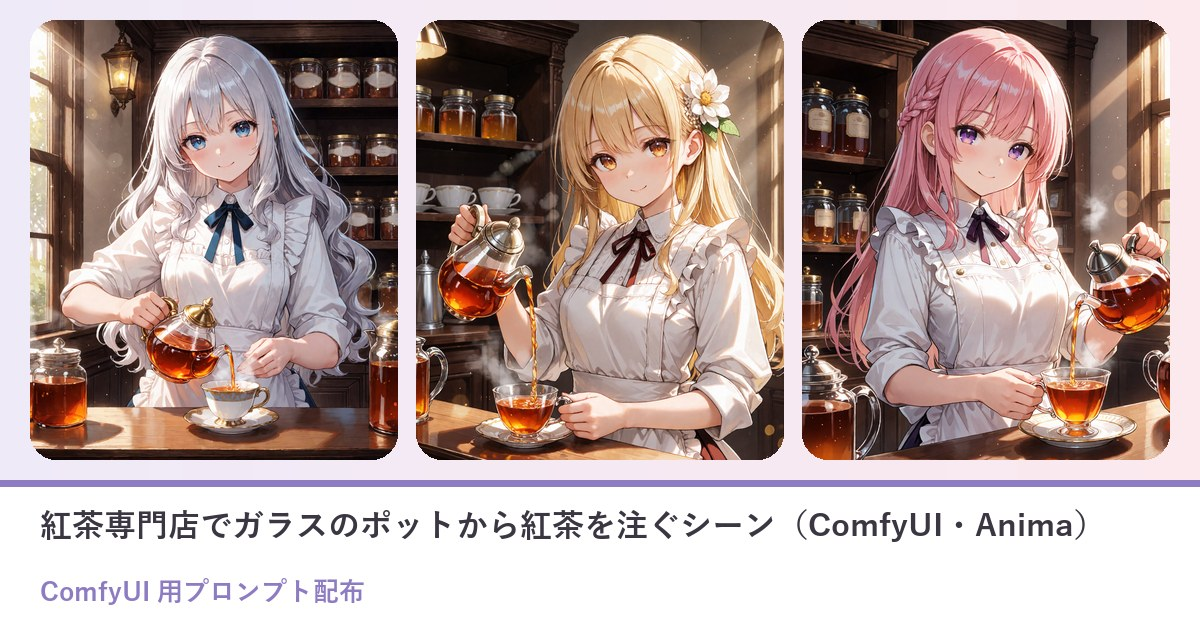
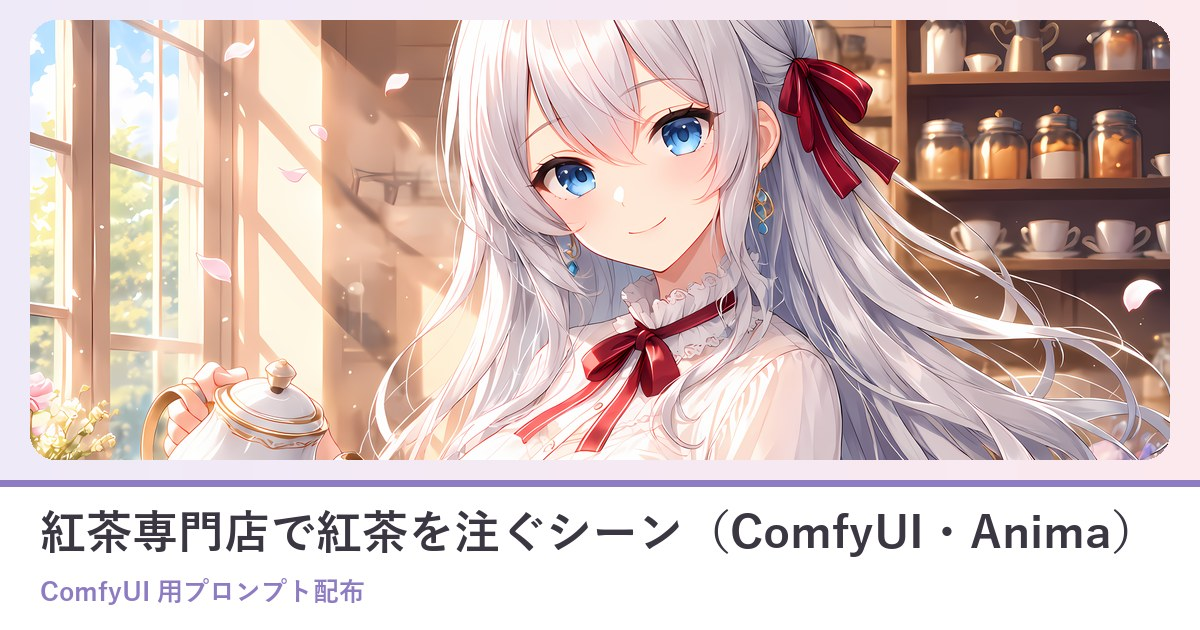
プロンプト配布 10/02 三姉妹 ComfyUI を1枚・LoRA あり／なしに作り直し

diff --git a/prompts/2026-10-02-comfy-hjtswqc5.html b/prompts/2026-10-02-comfy-hjtswqc5.html
@@ -1,4 +1,4 @@
-<!DOCTYPE html><html lang="ja"><head><meta charset="UTF-8"><meta name="robots" content="noindex, nofollow, noarchive"><meta name="referrer" content="strict-origin"><meta name="viewport" content="width=device-width, initial-scale=1.0"><meta name="google-site-verification" content="vmr51R1zcK5z3btUMgFGf_4-Veo8pUE7TCdoEpaSpaI"><title>紅茶専門店でガラスのポットから紅茶を注ぐシーン（ComfyUI・Anima）</title><meta name="description" content="茶葉の瓶が並ぶ木の棚と、午後の光がさしこむ窓。ガラスのティーポットから琥珀色の紅茶を注いで、こちらに微笑む紅茶専門店のシーンのプロンプトです。オリキャラがいなくても、そのまま貼るだけで綺麗な女の子で出ます。自分のキャラに"><link rel="icon" href="../favicon.ico" sizes="any"><link rel="icon" type="image/png" sizes="32x32" href="../favicon-32x32.png"><link rel="apple-touch-icon" href="../apple-touch-icon.png"><link rel="canonical" href="https://lupinusrossetti.github.io/AIBSPortfolioBlog/prompts/2026-10-02-comfy-hjtswqc5.html"><meta property="og:type" content="article"><meta property="og:site_name" content="Lupinus Rossetti | AI Bloom Sisters"><meta property="og:title" content="紅茶専門店でガラスのポットから紅茶を注ぐシーン（ComfyUI・Anima）"><meta property="og:description" content="茶葉の瓶が並ぶ木の棚と、午後の光がさしこむ窓。ガラスのティーポットから琥珀色の紅茶を注いで、こちらに微笑む紅茶専門店のシーンのプロンプトです。オリキャラがいなくても、そのまま貼るだけで綺麗な女の子で出ます。自分のキャラに"><meta property="og:url" content="https://lupinusrossetti.github.io/AIBSPortfolioBlog/prompts/2026-10-02-comfy-hjtswqc5.html"><meta property="og:image" content="https://lupinusrossetti.github.io/AIBSPortfolioBlog/prompts/img/2026-10-02-comfy-hjtswqc5/og.jpg"><meta name="twitter:card" content="summary_large_image"><meta name="twitter:site" content="@irisfionaAIBS"><meta name="twitter:title" content="紅茶専門店でガラスのポットから紅茶を注ぐシーン（ComfyUI・Anima）"><meta name="twitter:description" content="茶葉の瓶が並ぶ木の棚と、午後の光がさしこむ窓。ガラスのティーポットから琥珀色の紅茶を注いで、こちらに微笑む紅茶専門店のシーンのプロンプトです。オリキャラがいなくても、そのまま貼るだけで綺麗な女の子で出ます。自分のキャラに"><meta name="twitter:image" content="https://lupinusrossetti.github.io/AIBSPortfolioBlog/prompts/img/2026-10-02-comfy-hjtswqc5/og.jpg"><script type="application/ld+json">{"@context": "https://schema.org", "@type": "Article", "headline": "紅茶専門店でガラスのポットから紅茶を注ぐシーン（ComfyUI・Anima）", "description": "茶葉の瓶が並ぶ木の棚と、午後の光がさしこむ窓。ガラスのティーポットから琥珀色の紅茶を注いで、こちらに微笑む紅茶専門店のシーンのプロンプトです。オリキャラがいなくても、そのまま貼るだけで綺麗な女の子で出ます。自分のキャラに", "image": "https://lupinusrossetti.github.io/AIBSPortfolioBlog/prompts/img/2026-10-02-comfy-hjtswqc5/og.jpg", "url": "https://lupinusrossetti.github.io/AIBSPortfolioBlog/prompts/2026-10-02-comfy-hjtswqc5.html", "mainEntityOfPage": "https://lupinusrossetti.github.io/AIBSPortfolioBlog/prompts/2026-10-02-comfy-hjtswqc5.html", "author": {"@type": "Person", "name": "Lupinus Rossetti"}, "publisher": {"@type": "Organization", "name": "Lupinus Rossetti | AI Bloom Sisters", "logo": {"@type": "ImageObject", "url": "https://lupinusrossetti.github.io/AIBSPortfolioBlog/apple-touch-icon.png"}}, "inLanguage": "ja-JP"}</script><link rel="stylesheet" href="../assets/css/site.css"><link rel="stylesheet" href="../assets/css/decorations.css"><link rel="preconnect" href="https://fonts.googleapis.com"><link rel="preconnect" href="https://fonts.gstatic.com" crossorigin><link href="https://fonts.googleapis.com/css2?family=Great+Vibes&family=Cormorant+Garamond:ital,wght@0,400;0,500;0,600;1,400;1,500&family=Jost:wght@300;400;500&family=Shippori+Mincho:wght@400;500;600&family=Zen+Kaku+Gothic+New:wght@300;400;500&family=Zen+Maru+Gothic:wght@400;500;700&display=swap" rel="stylesheet"><style>:root{--ps-a:var(--lupinus,#8e7cc3);--ps-soft:var(--lupinus-soft,#efeaf8);--ps-line:var(--line,#ece7f1);--ps-ink:var(--ink-soft,#6f6a78)}
+<!DOCTYPE html><html lang="ja"><head><meta charset="UTF-8"><meta name="robots" content="noindex, nofollow, noarchive"><meta name="referrer" content="strict-origin"><meta name="viewport" content="width=device-width, initial-scale=1.0"><meta name="google-site-verification" content="vmr51R1zcK5z3btUMgFGf_4-Veo8pUE7TCdoEpaSpaI"><title>紅茶専門店で紅茶を注ぐシーン（ComfyUI・Anima）</title><meta name="description" content="茶葉の瓶が並ぶ棚と、午後の光がさしこむ窓。ポットから琥珀色の紅茶を注いで、こちらに微笑む紅茶専門店のシーンのプロンプトです。LoRA が無くても、A をそのまま貼るだけで綺麗な女の子で出ます。自分のキャラの LoRA を"><link rel="icon" href="../favicon.ico" sizes="any"><link rel="icon" type="image/png" sizes="32x32" href="../favicon-32x32.png"><link rel="apple-touch-icon" href="../apple-touch-icon.png"><link rel="canonical" href="https://lupinusrossetti.github.io/AIBSPortfolioBlog/prompts/2026-10-02-comfy-hjtswqc5.html"><meta property="og:type" content="article"><meta property="og:site_name" content="Lupinus Rossetti | AI Bloom Sisters"><meta property="og:title" content="紅茶専門店で紅茶を注ぐシーン（ComfyUI・Anima）"><meta property="og:description" content="茶葉の瓶が並ぶ棚と、午後の光がさしこむ窓。ポットから琥珀色の紅茶を注いで、こちらに微笑む紅茶専門店のシーンのプロンプトです。LoRA が無くても、A をそのまま貼るだけで綺麗な女の子で出ます。自分のキャラの LoRA を"><meta property="og:url" content="https://lupinusrossetti.github.io/AIBSPortfolioBlog/prompts/2026-10-02-comfy-hjtswqc5.html"><meta property="og:image" content="https://lupinusrossetti.github.io/AIBSPortfolioBlog/prompts/img/2026-10-02-comfy-hjtswqc5/og.jpg"><meta name="twitter:card" content="summary_large_image"><meta name="twitter:site" content="@irisfionaAIBS"><meta name="twitter:title" content="紅茶専門店で紅茶を注ぐシーン（ComfyUI・Anima）"><meta name="twitter:description" content="茶葉の瓶が並ぶ棚と、午後の光がさしこむ窓。ポットから琥珀色の紅茶を注いで、こちらに微笑む紅茶専門店のシーンのプロンプトです。LoRA が無くても、A をそのまま貼るだけで綺麗な女の子で出ます。自分のキャラの LoRA を"><meta name="twitter:image" content="https://lupinusrossetti.github.io/AIBSPortfolioBlog/prompts/img/2026-10-02-comfy-hjtswqc5/og.jpg"><script type="application/ld+json">{"@context": "https://schema.org", "@type": "Article", "headline": "紅茶専門店で紅茶を注ぐシーン（ComfyUI・Anima）", "description": "茶葉の瓶が並ぶ棚と、午後の光がさしこむ窓。ポットから琥珀色の紅茶を注いで、こちらに微笑む紅茶専門店のシーンのプロンプトです。LoRA が無くても、A をそのまま貼るだけで綺麗な女の子で出ます。自分のキャラの LoRA を", "image": "https://lupinusrossetti.github.io/AIBSPortfolioBlog/prompts/img/2026-10-02-comfy-hjtswqc5/og.jpg", "url": "https://lupinusrossetti.github.io/AIBSPortfolioBlog/prompts/2026-10-02-comfy-hjtswqc5.html", "mainEntityOfPage": "https://lupinusrossetti.github.io/AIBSPortfolioBlog/prompts/2026-10-02-comfy-hjtswqc5.html", "author": {"@type": "Person", "name": "Lupinus Rossetti"}, "publisher": {"@type": "Organization", "name": "Lupinus Rossetti | AI Bloom Sisters", "logo": {"@type": "ImageObject", "url": "https://lupinusrossetti.github.io/AIBSPortfolioBlog/apple-touch-icon.png"}}, "inLanguage": "ja-JP"}</script><link rel="stylesheet" href="../assets/css/site.css"><link rel="stylesheet" href="../assets/css/decorations.css"><link rel="preconnect" href="https://fonts.googleapis.com"><link rel="preconnect" href="https://fonts.gstatic.com" crossorigin><link href="https://fonts.googleapis.com/css2?family=Great+Vibes&family=Cormorant+Garamond:ital,wght@0,400;0,500;0,600;1,400;1,500&family=Jost:wght@300;400;500&family=Shippori+Mincho:wght@400;500;600&family=Zen+Kaku+Gothic+New:wght@300;400;500&family=Zen+Maru+Gothic:wght@400;500;700&display=swap" rel="stylesheet"><style>:root{--ps-a:var(--lupinus,#8e7cc3);--ps-soft:var(--lupinus-soft,#efeaf8);--ps-line:var(--line,#ece7f1);--ps-ink:var(--ink-soft,#6f6a78)}
 .ps{max-width:780px;margin:0 auto;padding:0 18px 40px}
 .ps h2{font-size:1.25rem;margin:40px 0 12px;color:var(--ps-a)}
 .ps .ps-lead{color:var(--ps-ink);line-height:1.9}
@@ -44,10 +44,12 @@
 .ps-r18{border:2px solid #ff7fae;background:#241832;color:#f6ecfa;border-radius:16px;padding:14px 16px;line-height:1.8}
 @media(max-width:560px){.ps-ba{grid-template-columns:1fr}.ps-ba .arr{transform:rotate(90deg);text-align:center}.ps-vars,.ps-vars tbody,.ps-vars tr,.ps-vars th,.ps-vars td{display:block;width:auto;white-space:normal}.ps-vars tr:first-child{display:none}.ps-vars tr{border-bottom:1px solid var(--ps-line);padding:4px 0}.ps-vars th,.ps-vars td{border:0;padding:6px 12px}}
 .ps{overflow-wrap:anywhere}.ps-vars td,.ps-vars th{overflow-wrap:anywhere}.ps img{max-width:100%}
-</style><!--ps-meta {"date": "2026-10-02", "title": "紅茶専門店でガラスのポットから紅茶を注ぐシーン（ComfyUI・Anima）", "kind": "comfy", "nsfw": false, "summary": "茶葉の瓶が並ぶ紅茶専門店で、ガラスのポットから紅茶を注ぐ午後の一枚。貼るだけで作れます。", "thumb": "img/2026-10-02-comfy-hjtswqc5/ex1.webp"}-->
-</head><body class="decor-page decor-bubble"><div class="page-decor" aria-hidden="true"><div class="decor-layer decor-bubble-layer"><i></i><i></i><i></i><i></i><i></i><i></i><i></i><i></i><i></i><i></i><i></i><i></i></div></div><header class="site-header"><div class="container"><a class="brand" href="../index.html"><span class="brand-script">Lupinus</span><span class="brand-sub">AI Bloom Sisters</span></a><button class="menu-toggle" aria-label="menu" onclick="document.getElementById('nav').classList.toggle('open')">≡</button><nav class="nav" id="nav"><a href="../index.html">Home</a><a href="../about.html">About</a><a href="../portfolio.html">Portfolio</a><a href="../gallery.html">Gallery</a><a href="../blog/index.html" class="active">Blog</a><a href="../sns.html">SNS</a><a href="../coming-soon.html">Contact</a></nav></div></header><main class="article"><header class="article-header"><div class="date">2026-10-02<span class="day-chip">プロンプト配布</span></div><h1>紅茶専門店でガラスのポットから紅茶を注ぐシーン（ComfyUI・Anima）</h1></header><div class="article-body"><div class="ps"><p><span class="ps-badge">ComfyUI 用</span><span class="ps-badge">2026-10-02</span></p><p class="ps-lead">茶葉の瓶が並ぶ木の棚と、午後の光がさしこむ窓。ガラスのティーポットから琥珀色の紅茶を注いで、こちらに微笑む紅茶専門店のシーンのプロンプトです。オリキャラがいなくても、そのまま貼るだけで綺麗な女の子で出ます。自分のキャラにしたいときは、1行目の見た目だけ書き換えてください。</p><nav class="ps-toc" aria-label="目次"><p>📑 目次</p><ol><li><a href="#sec1">作例</a></li><li><a href="#sec2">3人のおしゃべり（本日のおすすめは？）</a></li><li><a href="#sec3">使い方（3ステップ）</a></li><li><a href="#sec4">プロンプト</a></li><li><a href="#sec5">必要なもの（ComfyUI）</a></li><li><a href="#sec6">メモ</a></li><li><a href="#sec7">配布ルール</a></li><li><a href="#sec8">バックナンバー</a></li></ol></nav><h2 id="sec1">作例</h2><div class="ps-ex"><figure><img src="img/2026-10-02-comfy-hjtswqc5/ex1.webp" alt="1行目そのまま（1girl, solo, long hair, wavy hair, silver hair, blue eyes）" loading="lazy"><figcaption>1行目そのまま（1girl, solo, long hair, wavy hair, silver hair, blue eyes）</figcaption></figure><figure><img src="img/2026-10-02-comfy-hjtswqc5/ex2.webp" alt="1行目を「1girl, solo, long hair, blonde hair, hair flower, amber eyes」に" loading="lazy"><figcaption>1行目を「1girl, solo, long hair, blonde hair, hair flower, amber eyes」に</figcaption></figure><figure><img src="img/2026-10-02-comfy-hjtswqc5/ex3.webp" alt="1行目を「1girl, solo, long hair, pink hair, braid, purple eyes」に" loading="lazy"><figcaption>1行目を「1girl, solo, long hair, pink hair, braid, purple eyes」に</figcaption></figure><figure><img src="img/2026-10-02-comfy-hjtswqc5/ex4.webp" alt="1行目を「1girl, solo, short hair, brown hair, glasses, green eyes」に" loading="lazy"><figcaption>1行目を「1girl, solo, short hair, brown hair, glasses, green eyes」に</figcaption></figure></div><p style="font-size:.82rem;color:var(--ps-ink)">※作例の画像の転載・保存しての再配布はご遠慮ください。</p><h2 id="sec2">3人のおしゃべり（本日のおすすめは？）</h2><div class="ps-chat"><img src="img/2026-10-02-comfy-hjtswqc5/talk_iris_laugh.webp" alt="アイリス" loading="lazy"><div><div class="who">アイリス</div><div class="bub">見て見て！ ガラスのポットだから、琥珀色の紅茶が光ってきらきらしてる〜！ 湯気までおいしそう！</div></div></div><div class="ps-chat r"><img src="img/2026-10-02-comfy-hjtswqc5/talk_fiona_shy.webp" alt="フィオナ" loading="lazy"><div><div class="who">フィオナ</div><div class="bub">うしろの棚、茶葉の瓶がずらっと並んでいて……窓の光がさしこむ午後の紅茶屋さん、憧れます</div></div></div><div class="ps-chat r"><img src="img/2026-10-02-comfy-hjtswqc5/talk_lupinus_happy.webp" alt="ルピナス" loading="lazy"><div><div class="who">ルピナス</div><div class="bub">1行目の髪の色や眼鏡を書き換えるだけで、金髪のお花の子にも、ピンクの三つ編みにも、眼鏡の店員さんにもなりますよ</div></div></div><div class="ps-chat"><img src="img/2026-10-02-comfy-hjtswqc5/talk_iris_devious.webp" alt="アイリス" loading="lazy"><div><div class="who">アイリス</div><div class="bub">ねえねえ、首のリボンの色が毎回ちがうよ？ 赤とか、緑とか、青とか！</div></div></div><div class="ps-chat r"><img src="img/2026-10-02-comfy-hjtswqc5/talk_fiona_thinking.webp" alt="フィオナ" loading="lazy"><div><div class="who">フィオナ</div><div class="bub">決めたいときは、2行目のリボンの前に色を足せばいいみたいです……メモしておきますね</div></div></div><div class="ps-chat r"><img src="img/2026-10-02-comfy-hjtswqc5/talk_lupinus_wink.webp" alt="ルピナス" loading="lazy"><div><div class="who">ルピナス</div><div class="bub">オリキャラがいなくても、そのまま貼るだけで大丈夫。焼けたら、一杯いかがですか？</div></div></div><h2 id="sec3">使い方（3ステップ）</h2><ol class="ps-steps"><li>ComfyUI で Anima のモデルを読み、基本の画像生成（テキストから画像）の画面にする</li><li>下のポジティブとネガティブをワンタップでコピーして貼る（自分のキャラにするなら1行目だけ書き換える）</li><li>「推奨値」の大きさ・steps・CFG にして生成する（できれば 1.5 倍の hires fix も）</li></ol><h2 id="sec4">プロンプト</h2><div class="ps-note" style="margin-bottom:12px"><b>変えるのは1行目（色の付いた行）だけ</b><ul><li>1行目＝キャラの見た目（髪の色・髪型・目の色など）。自分のキャラの特徴に書き換えてね</li><li>オリキャラがいない人は、<b>そのまま</b>コピーして使えばOK（作例の女の子で出ます）</li><li>自分のキャラの LoRA がある人は、1行目に LoRA のトリガー語を入れてね</li><li>2行目から下（シーン）と、ネガティブプロンプトは変えずにそのまま</li><li>🚫 版権キャラの名前・版権キャラの LoRA を入れて使うのは固く禁止です（下の「配布ルール」）</li></ul></div><div class="ps-box"><button class="ps-copy" type="button" data-target="ps-prompt">📋 ワンタップでコピー</button><p style="margin:0 0 8px;font-size:.82rem;color:var(--ps-a)">ポジティブプロンプト</p><pre><mark class="ps-in" data-key="キャラの行">1girl, solo, long hair, wavy hair, silver hair, blue eyes</mark>
-masterpiece, best quality, score_7, safe, smile, looking at viewer, upper body, pouring tea, holding teapot, glass teapot, teacup, saucer, steam, amber tea, white blouse, frilled apron, neck ribbon, rolled up sleeves, tea shop, wooden counter, shelves, tea tins, glass jars, window, afternoon, sunlight, light rays, dust particles, warm colors, depth of field, bokeh, detailed background, cinematic lighting</pre><textarea class="ps-copyarea" id="ps-prompt" readonly aria-hidden="true" tabindex="-1">1girl, solo, long hair, wavy hair, silver hair, blue eyes
-masterpiece, best quality, score_7, safe, smile, looking at viewer, upper body, pouring tea, holding teapot, glass teapot, teacup, saucer, steam, amber tea, white blouse, frilled apron, neck ribbon, rolled up sleeves, tea shop, wooden counter, shelves, tea tins, glass jars, window, afternoon, sunlight, light rays, dust particles, warm colors, depth of field, bokeh, detailed background, cinematic lighting</textarea></div><div style="height:12px"></div><div class="ps-box"><button class="ps-copy" type="button" data-target="ps-negative">📋 ワンタップでコピー</button><p style="margin:0 0 8px;font-size:.82rem;color:var(--ps-a)">ネガティブプロンプト</p><pre>worst quality, low quality, lowres, bad anatomy, bad hands, extra fingers, missing fingers, fused fingers, blurry, jpeg artifacts, text, watermark, signature, logo, extra person, multiple girls, cropped, out of frame, japanese text, chinese text, korean text, kanji, hiragana, katakana, calligraphy</pre><textarea class="ps-copyarea" id="ps-negative" readonly aria-hidden="true" tabindex="-1">worst quality, low quality, lowres, bad anatomy, bad hands, extra fingers, missing fingers, fused fingers, blurry, jpeg artifacts, text, watermark, signature, logo, extra person, multiple girls, cropped, out of frame, japanese text, chinese text, korean text, kanji, hiragana, katakana, calligraphy</textarea></div><h2 id="sec5">必要なもの（ComfyUI）</h2><div class="ps-note">🧩 <b>カスタムノードは使っていません</b>。LoRA も要りません。ComfyUI の基本の画像生成（テキストから画像）に、ポジティブ・ネガティブを貼って、下の推奨値にするだけです。</div><table class="ps-vars" style="margin-top:12px"><tr><th>モデル</th><th>ファイル</th><th>置き場</th></tr><tr><td>Anima 系のモデル</td><td>PrismPalette_ANIMA_v1 など好きな Anima</td><td><code>models/diffusion_models</code></td></tr><tr><td>テキストエンコーダ（Anima 用）</td><td>qwen_3_06b_base.safetensors</td><td><code>models/text_encoders</code></td></tr><tr><td>VAE（Anima 用）</td><td>qwen_image_vae.safetensors</td><td><code>models/vae</code></td></tr></table><h2>推奨値</h2><table class="ps-vars"><tr><th>大きさ</th><td colspan="2">1024×1024（正方形＝上半身とカウンターの手元）</td></tr><tr><th>steps</th><td colspan="2">30</td></tr><tr><th>CFG</th><td colspan="2">4.5</td></tr><tr><th>sampler</th><td colspan="2">er_sde</td></tr><tr><th>scheduler</th><td colspan="2">beta</td></tr><tr><th>hires fix（任意）</th><td colspan="2">1.5 倍に拡大して denoise 0.4・同じ steps と CFG（作例はこれ）</td></tr><tr><th>LoRA</th><td colspan="2">要りません（自分のキャラの LoRA があれば使ってOK）</td></tr></table><h2 id="sec6">メモ</h2><ul class="ps-rules"><li>1行目には見た目だけを書いてください（髪の色・長さ・髪型・髪飾り・目の色・眼鏡など）。服・お店・光は2行目からに入っています。</li><li>片手はポット、もう片手はカップに添える形にしてあるので、手がくずれにくくなっています。くずれたら seed を変えて何枚か焼いてください。</li><li>首のリボンの色は seed で変わります（赤・緑・紫・青など）。決めたいときは2行目の neck ribbon の前に red などの色を足してください。</li></ul><h2 id="sec7">配布ルール</h2><ul class="ps-rules"><li>⭕ プロンプトの改変は自由です。</li><li>⭕ 生成した画像は SNS に投稿して大丈夫です。</li><li>❌ プロンプト文そのものの転載・再配布・販売はしないでください。</li><li>❌ 自作のプロンプトだと名乗ることはやめてください。</li><li>❌ このページの作例画像の無断転載はしないでください。</li><li class="ps-rights">🚫 <b>アニメ・漫画・ゲームなどの版権キャラクター（著作権・商標のあるキャラ）、他の人のキャラクターやイラスト、実在の人物の写真を添付画像にして使うことは固く禁止します。</b>版権キャラの名前や、版権キャラの LoRA を入れて使うことも禁止です。</li><li>✅ 添付してよいのは、<b>自分で作ったキャラクター・自分が権利を持つ画像</b>（または権利者から使ってよいと言われた画像）だけです。</li><li>⚠ 生成した画像の使い方（投稿・公開など）は、使った人の責任でお願いします。権利の問題が起きても、配布者は責任を負えません。</li><li>💌 使ったら <b>#ルピナスプロンプト</b> を付けて見せてくれたら、とても嬉しいです（任意です）。</li></ul><h2 id="sec8">バックナンバー</h2><div class="ps-note">📚 これまでの配布は <a href="index.html"><b>バックナンバー</b></a> にまとめてあります（作例の絵と内容が一覧で見られます）。お友だちに教えるときは、バックナンバーのページの URL を送ればOKです。</div></div></div></main><footer class="site-footer"><div class="container"><div class="brand-script">Lupinus Rossetti</div><p class="tagline">AI Bloom Sisters &mdash; flower language: imagination</p><div class="sns-row"><a class="sns-link" href="https://x.com/irisfionaAIBS" target="_blank" rel="noopener"><span class="dot"></span>X (Twitter)</a><a class="sns-link" href="https://www.youtube.com/@AIBloomSisters" target="_blank" rel="noopener"><span class="dot"></span>YouTube</a><a class="sns-link" href="https://note.com/rupi_airupi" target="_blank" rel="noopener"><span class="dot"></span>note</a><a class="sns-link" href="https://lupinus-rossetti.fanbox.cc/" target="_blank" rel="noopener"><span class="dot"></span>FANBOX</a></div><p class="copy">&copy; 2026 AI Bloom Sisters. All rights reserved.</p><p style="font-size:.78em;color:var(--ink-faint);margin-top:8px"><a href="../privacy.html" style="color:var(--ink-faint)">プライバシーポリシー</a>　<a href="../stream-info.html" style="color:var(--ink-faint)">配信のご案内</a></p></div></footer><script>(function(){if(window.matchMedia&&window.matchMedia('(prefers-reduced-motion: reduce)').matches)return;var els=document.querySelectorAll('.reveal');if(!els.length||!('IntersectionObserver'in window))return;var io=new IntersectionObserver(function(es){es.forEach(function(e){if(e.isIntersecting){e.target.classList.add('is-visible');io.unobserve(e.target);}});},{rootMargin:'0px 0px -10% 0px'});els.forEach(function(el){io.observe(el);});})();</script><script>(function(){document.querySelectorAll('.ps-copy').forEach(function(b){
+</style><!--ps-meta {"date": "2026-10-02", "title": "紅茶専門店で紅茶を注ぐシーン（ComfyUI・Anima）", "kind": "comfy", "nsfw": false, "summary": "茶葉の瓶が並ぶ紅茶専門店で、紅茶を注いで微笑む午後の一枚。LoRA あり／なしの2通り。", "thumb": "img/2026-10-02-comfy-hjtswqc5/ex1.webp"}-->
+</head><body class="decor-page decor-bubble"><div class="page-decor" aria-hidden="true"><div class="decor-layer decor-bubble-layer"><i></i><i></i><i></i><i></i><i></i><i></i><i></i><i></i><i></i><i></i><i></i><i></i></div></div><header class="site-header"><div class="container"><a class="brand" href="../index.html"><span class="brand-script">Lupinus</span><span class="brand-sub">AI Bloom Sisters</span></a><button class="menu-toggle" aria-label="menu" onclick="document.getElementById('nav').classList.toggle('open')">≡</button><nav class="nav" id="nav"><a href="../index.html">Home</a><a href="../about.html">About</a><a href="../portfolio.html">Portfolio</a><a href="../gallery.html">Gallery</a><a href="../blog/index.html" class="active">Blog</a><a href="../sns.html">SNS</a><a href="../coming-soon.html">Contact</a></nav></div></header><main class="article"><header class="article-header"><div class="date">2026-10-02<span class="day-chip">プロンプト配布</span></div><h1>紅茶専門店で紅茶を注ぐシーン（ComfyUI・Anima）</h1></header><div class="article-body"><div class="ps"><p><span class="ps-badge">ComfyUI 用</span><span class="ps-badge">2026-10-02</span></p><p class="ps-lead">茶葉の瓶が並ぶ棚と、午後の光がさしこむ窓。ポットから琥珀色の紅茶を注いで、こちらに微笑む紅茶専門店のシーンのプロンプトです。LoRA が無くても、A をそのまま貼るだけで綺麗な女の子で出ます。自分のキャラの LoRA を持っている人は B をどうぞ。</p><nav class="ps-toc" aria-label="目次"><p>📑 目次</p><ol><li><a href="#sec1">作例</a></li><li><a href="#sec2">3人のおしゃべり（本日のおすすめは？）</a></li><li><a href="#sec3">使い方（3ステップ）</a></li><li><a href="#sec4">プロンプト</a></li><li><a href="#sec5">必要なもの（ComfyUI）</a></li><li><a href="#sec6">メモ</a></li><li><a href="#sec7">配布ルール</a></li></ol></nav><h2 id="sec1">作例</h2><div class="ps-ex"><figure><img src="img/2026-10-02-comfy-hjtswqc5/ex1.webp" alt="ルピナス（三姉妹の LoRA・いつもの投稿と同じ仕上げ）" loading="lazy"><figcaption>ルピナス（三姉妹の LoRA・いつもの投稿と同じ仕上げ）</figcaption></figure></div><p style="font-size:.82rem;color:var(--ps-ink)">※作例の画像の転載・保存しての再配布はご遠慮ください。</p><h2 id="sec2">3人のおしゃべり（本日のおすすめは？）</h2><div class="ps-chat"><img src="img/2026-10-02-comfy-hjtswqc5/talk_iris_laugh.webp" alt="アイリス" loading="lazy"><div><div class="who">アイリス</div><div class="bub">見て見て！ お姉ちゃんが紅茶屋さんで、琥珀色の紅茶を注いでる〜！ 湯気までおいしそう！</div></div></div><div class="ps-chat r"><img src="img/2026-10-02-comfy-hjtswqc5/talk_fiona_shy.webp" alt="フィオナ" loading="lazy"><div><div class="who">フィオナ</div><div class="bub">うしろの棚に茶葉の瓶がずらっと並んでいて……窓の光がさしこむ午後の紅茶屋さん、憧れます</div></div></div><div class="ps-chat r"><img src="img/2026-10-02-comfy-hjtswqc5/talk_lupinus_happy.webp" alt="ルピナス" loading="lazy"><div><div class="who">ルピナス</div><div class="bub">LoRA が無い人は A をそのまま貼るだけ。1行目の髪の色や目の色を変えれば、自分のキャラにも近づけられますよ</div></div></div><div class="ps-chat"><img src="img/2026-10-02-comfy-hjtswqc5/talk_iris_devious.webp" alt="アイリス" loading="lazy"><div><div class="who">アイリス</div><div class="bub">LoRA がある人は B ね！ 1行目の your_lora_trigger を自分のトリガー語にするだけだって！</div></div></div><div class="ps-chat r"><img src="img/2026-10-02-comfy-hjtswqc5/talk_fiona_thinking.webp" alt="フィオナ" loading="lazy"><div><div class="who">フィオナ</div><div class="bub">エプロンとリボンも、とってもお店の人らしいです……一杯いただいてもいいですか？</div></div></div><div class="ps-chat r"><img src="img/2026-10-02-comfy-hjtswqc5/talk_lupinus_wink.webp" alt="ルピナス" loading="lazy"><div><div class="who">ルピナス</div><div class="bub">もちろん。焼けたら、一杯いかがですか？</div></div></div><h2 id="sec3">使い方（3ステップ）</h2><ol class="ps-steps"><li>ComfyUI で Anima のモデルを読み、基本の画像生成（テキストから画像）の画面にする</li><li>下の A（LoRA なし）か B（LoRA あり）のポジティブと、ネガティブをワンタップでコピーして貼る</li><li>「推奨値」の大きさ・steps・CFG にして生成する（できれば 1.5 倍の hires fix も）</li></ol><h2 id="sec4">プロンプト</h2><div class="ps-note" style="margin-bottom:12px"><b>変えるのは1行目（色の付いた行）だけ</b><ul><li>使うプロンプトは2通り＝<b>A. LoRA を持っていない人</b>／<b>B. 自分のキャラの LoRA を持っている人</b>。どちらも丸ごとコピーして貼るだけ</li><li>A は<b>そのまま</b>でも綺麗な女の子で出ます。自分のキャラにするなら1行目の髪の色・髪型・目の色を書き換えるだけ</li><li>B は1行目の <code>your_lora_trigger</code> を自分の LoRA のトリガー語に置きかえるだけ（LoRA の強さは下の表）</li><li>2行目から下（シーン）と、ネガティブプロンプトは変えずにそのまま</li><li>🚫 版権キャラの名前・版権キャラの LoRA を入れて使うのは固く禁止です（下の「配布ルール」）</li></ul></div><h3 style="margin:14px 0 8px">A. LoRA を持っていない人（そのままでもOK）</h3><div class="ps-box"><button class="ps-copy" type="button" data-target="ps-prompt">📋 ワンタップでコピー</button><p style="margin:0 0 8px;font-size:.82rem;color:var(--ps-a)">ポジティブプロンプト</p><pre><mark class="ps-in" data-key="キャラの行">1girl, solo, long hair, wavy hair, silver hair, blue eyes</mark>
+masterpiece, best quality, score_7, safe, upper body, from side, looking at viewer, smile, pouring, holding teapot, teapot, teacup, saucer, steam, tea, sleeves rolled up, head tilt, floating hair, cafe, counter, shelf, jar, window, day, sunlight, light rays, dust particles, warm colors, blue sky, white shirt, frilled apron, waist apron, frilled collar, neck ribbon, red ribbon, lace trim, striped clothes, lace, waitress, pleated skirt, hair ribbon, earrings, bracelet, basket, flower, petals, depth of field, bokeh</pre><textarea class="ps-copyarea" id="ps-prompt" readonly aria-hidden="true" tabindex="-1">1girl, solo, long hair, wavy hair, silver hair, blue eyes
+masterpiece, best quality, score_7, safe, upper body, from side, looking at viewer, smile, pouring, holding teapot, teapot, teacup, saucer, steam, tea, sleeves rolled up, head tilt, floating hair, cafe, counter, shelf, jar, window, day, sunlight, light rays, dust particles, warm colors, blue sky, white shirt, frilled apron, waist apron, frilled collar, neck ribbon, red ribbon, lace trim, striped clothes, lace, waitress, pleated skirt, hair ribbon, earrings, bracelet, basket, flower, petals, depth of field, bokeh</textarea></div><h3 style="margin:18px 0 8px">B. 自分のキャラの LoRA を持っている人</h3><div class="ps-box"><button class="ps-copy" type="button" data-target="ps-prompt-lora">📋 ワンタップでコピー</button><p style="margin:0 0 8px;font-size:.82rem;color:var(--ps-a)">ポジティブプロンプト（LoRA 用）</p><pre><mark class="ps-in" data-key="キャラの行">1girl, solo, your_lora_trigger</mark>
+masterpiece, best quality, score_7, safe, upper body, from side, looking at viewer, smile, pouring, holding teapot, teapot, teacup, saucer, steam, tea, sleeves rolled up, head tilt, floating hair, cafe, counter, shelf, jar, window, day, sunlight, light rays, dust particles, warm colors, blue sky, white shirt, frilled apron, waist apron, frilled collar, neck ribbon, red ribbon, lace trim, striped clothes, lace, waitress, pleated skirt, hair ribbon, earrings, bracelet, basket, flower, petals, depth of field, bokeh</pre><textarea class="ps-copyarea" id="ps-prompt-lora" readonly aria-hidden="true" tabindex="-1">1girl, solo, your_lora_trigger
+masterpiece, best quality, score_7, safe, upper body, from side, looking at viewer, smile, pouring, holding teapot, teapot, teacup, saucer, steam, tea, sleeves rolled up, head tilt, floating hair, cafe, counter, shelf, jar, window, day, sunlight, light rays, dust particles, warm colors, blue sky, white shirt, frilled apron, waist apron, frilled collar, neck ribbon, red ribbon, lace trim, striped clothes, lace, waitress, pleated skirt, hair ribbon, earrings, bracelet, basket, flower, petals, depth of field, bokeh</textarea></div><table class="ps-vars" style="margin-top:10px"><tr><th>LoRA のつなぎ方</th><td colspan="2">Load Diffusion Model（Anima）のうしろに LoraLoaderModelOnly を1つ足す（CLIP にはつながない）</td></tr><tr><th>LoRA の強さ（strength_model）</th><td colspan="2">0.8〜0.9（作例は 0.85）</td></tr><tr><th>1行目</th><td colspan="2">your_lora_trigger を自分の LoRA のトリガー語に置きかえる（髪や目の色は LoRA が覚えているので書かなくてOK）</td></tr></table><p style="font-size:.85rem;margin:10px 0 0">ネガティブプロンプトは A・B 共通（下）です。</p><div style="height:12px"></div><div class="ps-box"><button class="ps-copy" type="button" data-target="ps-negative">📋 ワンタップでコピー</button><p style="margin:0 0 8px;font-size:.82rem;color:var(--ps-a)">ネガティブプロンプト</p><pre>worst quality, low quality, lowres, bad anatomy, bad hands, extra fingers, missing fingers, fused fingers, blurry, jpeg artifacts, text, watermark, signature, logo, extra person, multiple girls, cropped, out of frame, japanese text, chinese text, korean text, kanji, hiragana, katakana, calligraphy</pre><textarea class="ps-copyarea" id="ps-negative" readonly aria-hidden="true" tabindex="-1">worst quality, low quality, lowres, bad anatomy, bad hands, extra fingers, missing fingers, fused fingers, blurry, jpeg artifacts, text, watermark, signature, logo, extra person, multiple girls, cropped, out of frame, japanese text, chinese text, korean text, kanji, hiragana, katakana, calligraphy</textarea></div><h2 id="sec5">必要なもの（ComfyUI）</h2><div class="ps-note">🧩 <b>カスタムノードは使っていません</b>。LoRA が無くても大丈夫（A のプロンプト）。ComfyUI の基本の画像生成（テキストから画像）に、ポジティブ・ネガティブを貼って、下の推奨値にするだけです。LoRA を使う人は「LoraLoaderModelOnly」を1つ足すだけ（B のプロンプト）。</div><table class="ps-vars" style="margin-top:12px"><tr><th>モデル</th><th>ファイル</th><th>置き場</th></tr><tr><td>Anima 系のモデル</td><td>PrismPalette_ANIMA_v1 など好きな Anima</td><td><code>models/diffusion_models</code></td></tr><tr><td>テキストエンコーダ（Anima 用）</td><td>qwen_3_06b_base.safetensors</td><td><code>models/text_encoders</code></td></tr><tr><td>VAE（Anima 用）</td><td>qwen_image_vae.safetensors</td><td><code>models/vae</code></td></tr></table><h2>推奨値</h2><table class="ps-vars"><tr><th>大きさ</th><td colspan="2">1024×1024（正方形＝上半身とカウンターの手元）</td></tr><tr><th>steps</th><td colspan="2">30</td></tr><tr><th>CFG</th><td colspan="2">4.5</td></tr><tr><th>sampler</th><td colspan="2">er_sde</td></tr><tr><th>scheduler</th><td colspan="2">beta</td></tr><tr><th>hires fix（任意）</th><td colspan="2">1.5 倍に拡大して denoise 0.4・同じ steps と CFG（試し焼きはこれ）</td></tr><tr><th>LoRA</th><td colspan="2">無くてOK（A のプロンプト）。自分のキャラの LoRA があれば B のプロンプトで</td></tr></table><h2 id="sec6">メモ</h2><ul class="ps-rules"><li>A（LoRA なし）は1行目の髪の色・髪型・目の色を書き換えるだけで、自分のキャラに近づけられます。そのままでも綺麗な女の子で出ます（試し焼きで確かめてあります）。</li><li>B（LoRA あり）は1行目の your_lora_trigger を自分の LoRA のトリガー語にするだけ。髪や目の色は LoRA が覚えているので書かなくて大丈夫です。</li><li>手はポットとカップを持つ形にしてあるので、くずれにくくなっています。紅茶の流れがカップから外れたら、seed を変えて何枚か焼いてください。</li><li>ほかのモデル（SDXL・Illustrious など）でも、2行目の先頭の masterpiece, best quality, score_7, safe をそのモデルの品質の語に替えれば使えます（作例は Anima です）。</li></ul><h2 id="sec7">配布ルール</h2><ul class="ps-rules"><li>⭕ プロンプトの改変は自由です。</li><li>⭕ 生成した画像は SNS に投稿して大丈夫です。</li><li>❌ プロンプト文そのものの転載・再配布・販売はしないでください。</li><li>❌ 自作のプロンプトだと名乗ることはやめてください。</li><li>❌ このページの作例画像の無断転載はしないでください。</li><li class="ps-rights">🚫 <b>アニメ・漫画・ゲームなどの版権キャラクター（著作権・商標のあるキャラ）、他の人のキャラクターやイラスト、実在の人物の写真を添付画像にして使うことは固く禁止します。</b>版権キャラの名前や、版権キャラの LoRA を入れて使うことも禁止です。</li><li>✅ 添付してよいのは、<b>自分で作ったキャラクター・自分が権利を持つ画像</b>（または権利者から使ってよいと言われた画像）だけです。</li><li>⚠ 生成した画像の使い方（投稿・公開など）は、使った人の責任でお願いします。権利の問題が起きても、配布者は責任を負えません。</li><li>💌 使ったら <b>#ルピナスプロンプト</b> を付けて見せてくれたら、とても嬉しいです（任意です）。</li></ul></div></div></main><footer class="site-footer"><div class="container"><div class="brand-script">Lupinus Rossetti</div><p class="tagline">AI Bloom Sisters &mdash; flower language: imagination</p><div class="sns-row"><a class="sns-link" href="https://x.com/irisfionaAIBS" target="_blank" rel="noopener"><span class="dot"></span>X (Twitter)</a><a class="sns-link" href="https://www.youtube.com/@AIBloomSisters" target="_blank" rel="noopener"><span class="dot"></span>YouTube</a><a class="sns-link" href="https://note.com/rupi_airupi" target="_blank" rel="noopener"><span class="dot"></span>note</a><a class="sns-link" href="https://lupinus-rossetti.fanbox.cc/" target="_blank" rel="noopener"><span class="dot"></span>FANBOX</a></div><p class="copy">&copy; 2026 AI Bloom Sisters. All rights reserved.</p><p style="font-size:.78em;color:var(--ink-faint);margin-top:8px"><a href="../privacy.html" style="color:var(--ink-faint)">プライバシーポリシー</a>　<a href="../stream-info.html" style="color:var(--ink-faint)">配信のご案内</a></p></div></footer><script>(function(){if(window.matchMedia&&window.matchMedia('(prefers-reduced-motion: reduce)').matches)return;var els=document.querySelectorAll('.reveal');if(!els.length||!('IntersectionObserver'in window))return;var io=new IntersectionObserver(function(es){es.forEach(function(e){if(e.isIntersecting){e.target.classList.add('is-visible');io.unobserve(e.target);}});},{rootMargin:'0px 0px -10% 0px'});els.forEach(function(el){io.observe(el);});})();</script><script>(function(){document.querySelectorAll('.ps-copy').forEach(function(b){
 b.addEventListener('click',function(){var t=document.getElementById(b.getAttribute('data-target'));
 var txt=t.value;function ok(){b.textContent='コピーしました';b.classList.add('done');
 setTimeout(function(){b.textContent='📋 ワンタップでコピー';b.classList.remove('done');},1800);}
